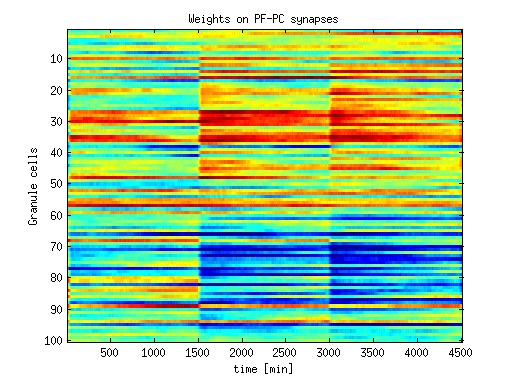
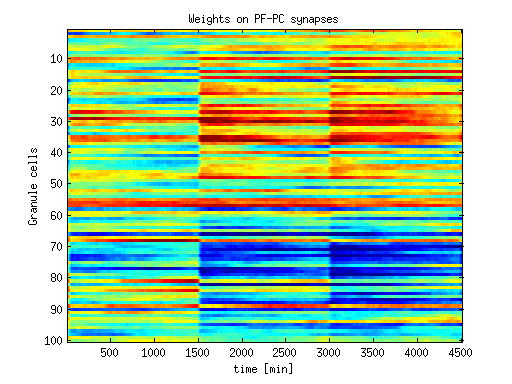
long experiment

diff --git a/simulations/parametric/html/longclopathnoi.html b/simulations/parametric/html/longclopathnoi.html
@@ -6,7 +6,7 @@
    <!--
 This HTML was auto-generated from MATLAB code.
 To make changes, update the MATLAB code and republish this document.
-      --><title>Reproducing results of Clopath et al. model of the vestibulo-ocular reflex</title><meta name="generator" content="MATLAB 8.3"><link rel="schema.DC" href="http://purl.org/dc/elements/1.1/"><meta name="DC.date" content="2015-05-17"><meta name="DC.source" content="noi.m"><style type="text/css">
+      --><title>Reproducing results of Clopath et al. model of the vestibulo-ocular reflex</title><meta name="generator" content="MATLAB 8.3"><link rel="schema.DC" href="http://purl.org/dc/elements/1.1/"><meta name="DC.date" content="2015-05-17"><meta name="DC.source" content="longclopathnoi.m"><style type="text/css">
 html,body,div,span,applet,object,iframe,h1,h2,h3,h4,h5,h6,p,blockquote,pre,a,abbr,acronym,address,big,cite,code,del,dfn,em,font,img,ins,kbd,q,s,samp,small,strike,strong,sub,sup,tt,var,b,u,i,center,dl,dt,dd,ol,ul,li,fieldset,form,label,legend,table,caption,tbody,tfoot,thead,tr,th,td{margin:0;padding:0;border:0;outline:0;font-size:100%;vertical-align:baseline;background:transparent}body{line-height:1}ol,ul{list-style:none}blockquote,q{quotes:none}blockquote:before,blockquote:after,q:before,q:after{content:'';content:none}:focus{outine:0}ins{text-decoration:none}del{text-decoration:line-through}table{border-collapse:collapse;border-spacing:0}
 
 html { min-height:100%; margin-bottom:1px; }
@@ -66,30 +66,30 @@ table td { padding:7px 5px; text-align:left; vertical-align:top; border:1px soli
 
 
 
-  </style></head><body><div class="content"><h1>Reproducing results of Clopath et al. model of the vestibulo-ocular reflex</h1><!--introduction--><!--/introduction--><h2>Contents</h2><div><ul><li><a href="#1">Detailed model with 100ms delay and NOI with k=0.01</a></li></ul></div><h2>Detailed model with 100ms delay and NOI with k=0.01<a name="1"></a></h2><pre class="codeinput">clear <span class="string">all</span>;
+  </style></head><body><div class="content"><h1>Reproducing results of Clopath et al. model of the vestibulo-ocular reflex</h1><!--introduction--><!--/introduction--><h2>Contents</h2><div><ul><li><a href="#1">Detailed model with 100ms delay, vestibular decay constant = 0.03 and NOI with k=0.01</a></li></ul></div><h2>Detailed model with 100ms delay, vestibular decay constant = 0.03 and NOI with k=0.01<a name="1"></a></h2><pre class="codeinput">clear <span class="string">all</span>;
 
-vor = VOR(100, 0.01, 0);
+vor = VOR(100, 0.01, 0.03);
 vor.Period = floor(1000/0.6);
 vor.Initialize();
 
 session = Session(vor);
-session.WulffExperiment();
+session.LongDarkExperiment();
 session.simulate();
 session.report();
-</pre><img vspace="5" hspace="5" src="noi_01.png" alt=""> <img vspace="5" hspace="5" src="noi_02.png" alt=""> <img vspace="5" hspace="5" src="noi_03.png" alt=""> <img vspace="5" hspace="5" src="noi_04.png" alt=""> <img vspace="5" hspace="5" src="noi_05.png" alt=""> <img vspace="5" hspace="5" src="noi_06.png" alt=""> <p class="footer"><br><a href="http://www.mathworks.com/products/matlab/">Published with MATLAB&reg; R2014a</a><br></p></div><!--
+</pre><img vspace="5" hspace="5" src="longclopathnoi_01.png" alt=""> <img vspace="5" hspace="5" src="longclopathnoi_02.png" alt=""> <img vspace="5" hspace="5" src="longclopathnoi_03.png" alt=""> <img vspace="5" hspace="5" src="longclopathnoi_04.png" alt=""> <img vspace="5" hspace="5" src="longclopathnoi_05.png" alt=""> <img vspace="5" hspace="5" src="longclopathnoi_06.png" alt=""> <p class="footer"><br><a href="http://www.mathworks.com/products/matlab/">Published with MATLAB&reg; R2014a</a><br></p></div><!--
 ##### SOURCE BEGIN #####
 %% Reproducing results of Clopath et al. model of the vestibulo-ocular reflex
 
-%% Detailed model with 100ms delay and NOI with k=0.01
+%% Detailed model with 100ms delay, vestibular decay constant = 0.03 and NOI with k=0.01
 
 clear all;
 
-vor = VOR(100, 0.01, 0);
+vor = VOR(100, 0.01, 0.03);
 vor.Period = floor(1000/0.6);
 vor.Initialize();
 
 session = Session(vor);
-session.WulffExperiment();
+session.LongDarkExperiment();
 session.simulate();
 session.report();
 ##### SOURCE END #####

diff --git a/simulations/parametric/html/longclopath.html b/simulations/parametric/html/longclopath.html
@@ -6,7 +6,7 @@
    <!--
 This HTML was auto-generated from MATLAB code.
 To make changes, update the MATLAB code and republish this document.
-      --><title>Reproducing results of Clopath et al. model of the vestibulo-ocular reflex</title><meta name="generator" content="MATLAB 8.3"><link rel="schema.DC" href="http://purl.org/dc/elements/1.1/"><meta name="DC.date" content="2015-05-17"><meta name="DC.source" content="noi.m"><style type="text/css">
+      --><title>Reproducing results of Clopath et al. model of the vestibulo-ocular reflex</title><meta name="generator" content="MATLAB 8.3"><link rel="schema.DC" href="http://purl.org/dc/elements/1.1/"><meta name="DC.date" content="2015-05-17"><meta name="DC.source" content="longclopath.m"><style type="text/css">
 html,body,div,span,applet,object,iframe,h1,h2,h3,h4,h5,h6,p,blockquote,pre,a,abbr,acronym,address,big,cite,code,del,dfn,em,font,img,ins,kbd,q,s,samp,small,strike,strong,sub,sup,tt,var,b,u,i,center,dl,dt,dd,ol,ul,li,fieldset,form,label,legend,table,caption,tbody,tfoot,thead,tr,th,td{margin:0;padding:0;border:0;outline:0;font-size:100%;vertical-align:baseline;background:transparent}body{line-height:1}ol,ul{list-style:none}blockquote,q{quotes:none}blockquote:before,blockquote:after,q:before,q:after{content:'';content:none}:focus{outine:0}ins{text-decoration:none}del{text-decoration:line-through}table{border-collapse:collapse;border-spacing:0}
 
 html { min-height:100%; margin-bottom:1px; }
@@ -66,30 +66,30 @@ table td { padding:7px 5px; text-align:left; vertical-align:top; border:1px soli
 
 
 
-  </style></head><body><div class="content"><h1>Reproducing results of Clopath et al. model of the vestibulo-ocular reflex</h1><!--introduction--><!--/introduction--><h2>Contents</h2><div><ul><li><a href="#1">Detailed model with 100ms delay and NOI with k=0.01</a></li></ul></div><h2>Detailed model with 100ms delay and NOI with k=0.01<a name="1"></a></h2><pre class="codeinput">clear <span class="string">all</span>;
+  </style></head><body><div class="content"><h1>Reproducing results of Clopath et al. model of the vestibulo-ocular reflex</h1><!--introduction--><!--/introduction--><h2>Contents</h2><div><ul><li><a href="#1">Detailed model with 100ms delay and vestibular decay constant = 0.03</a></li></ul></div><h2>Detailed model with 100ms delay and vestibular decay constant = 0.03<a name="1"></a></h2><pre class="codeinput">clear <span class="string">all</span>;
 
-vor = VOR(100, 0.01, 0);
+vor = VOR(100, 0, 0.03);
 vor.Period = floor(1000/0.6);
 vor.Initialize();
 
 session = Session(vor);
-session.WulffExperiment();
+session.LongDarkExperiment();
 session.simulate();
 session.report();
-</pre><img vspace="5" hspace="5" src="noi_01.png" alt=""> <img vspace="5" hspace="5" src="noi_02.png" alt=""> <img vspace="5" hspace="5" src="noi_03.png" alt=""> <img vspace="5" hspace="5" src="noi_04.png" alt=""> <img vspace="5" hspace="5" src="noi_05.png" alt=""> <img vspace="5" hspace="5" src="noi_06.png" alt=""> <p class="footer"><br><a href="http://www.mathworks.com/products/matlab/">Published with MATLAB&reg; R2014a</a><br></p></div><!--
+</pre><img vspace="5" hspace="5" src="longclopath_01.png" alt=""> <img vspace="5" hspace="5" src="longclopath_02.png" alt=""> <img vspace="5" hspace="5" src="longclopath_03.png" alt=""> <img vspace="5" hspace="5" src="longclopath_04.png" alt=""> <img vspace="5" hspace="5" src="longclopath_05.png" alt=""> <img vspace="5" hspace="5" src="longclopath_06.png" alt=""> <p class="footer"><br><a href="http://www.mathworks.com/products/matlab/">Published with MATLAB&reg; R2014a</a><br></p></div><!--
 ##### SOURCE BEGIN #####
 %% Reproducing results of Clopath et al. model of the vestibulo-ocular reflex
 
-%% Detailed model with 100ms delay and NOI with k=0.01
+%% Detailed model with 100ms delay and vestibular decay constant = 0.03
 
 clear all;
 
-vor = VOR(100, 0.01, 0);
+vor = VOR(100, 0, 0.03);
 vor.Period = floor(1000/0.6);
 vor.Initialize();
 
 session = Session(vor);
-session.WulffExperiment();
+session.LongDarkExperiment();
 session.simulate();
 session.report();
 ##### SOURCE END #####

diff --git a/simulations/parametric/html/clopathnoi.html b/simulations/parametric/html/clopathnoi.html
@@ -6,7 +6,7 @@
    <!--
 This HTML was auto-generated from MATLAB code.
 To make changes, update the MATLAB code and republish this document.
-      --><title>Reproducing results of Clopath et al. model of the vestibulo-ocular reflex</title><meta name="generator" content="MATLAB 8.3"><link rel="schema.DC" href="http://purl.org/dc/elements/1.1/"><meta name="DC.date" content="2015-05-17"><meta name="DC.source" content="noi.m"><style type="text/css">
+      --><title>Reproducing results of Clopath et al. model of the vestibulo-ocular reflex</title><meta name="generator" content="MATLAB 8.3"><link rel="schema.DC" href="http://purl.org/dc/elements/1.1/"><meta name="DC.date" content="2015-05-17"><meta name="DC.source" content="clopathnoi.m"><style type="text/css">
 html,body,div,span,applet,object,iframe,h1,h2,h3,h4,h5,h6,p,blockquote,pre,a,abbr,acronym,address,big,cite,code,del,dfn,em,font,img,ins,kbd,q,s,samp,small,strike,strong,sub,sup,tt,var,b,u,i,center,dl,dt,dd,ol,ul,li,fieldset,form,label,legend,table,caption,tbody,tfoot,thead,tr,th,td{margin:0;padding:0;border:0;outline:0;font-size:100%;vertical-align:baseline;background:transparent}body{line-height:1}ol,ul{list-style:none}blockquote,q{quotes:none}blockquote:before,blockquote:after,q:before,q:after{content:'';content:none}:focus{outine:0}ins{text-decoration:none}del{text-decoration:line-through}table{border-collapse:collapse;border-spacing:0}
 
 html { min-height:100%; margin-bottom:1px; }
@@ -66,9 +66,9 @@ table td { padding:7px 5px; text-align:left; vertical-align:top; border:1px soli
 
 
 
-  </style></head><body><div class="content"><h1>Reproducing results of Clopath et al. model of the vestibulo-ocular reflex</h1><!--introduction--><!--/introduction--><h2>Contents</h2><div><ul><li><a href="#1">Detailed model with 100ms delay and NOI with k=0.01</a></li></ul></div><h2>Detailed model with 100ms delay and NOI with k=0.01<a name="1"></a></h2><pre class="codeinput">clear <span class="string">all</span>;
+  </style></head><body><div class="content"><h1>Reproducing results of Clopath et al. model of the vestibulo-ocular reflex</h1><!--introduction--><!--/introduction--><h2>Contents</h2><div><ul><li><a href="#1">Detailed model with 100ms delay, vestibular decay constant = 0.03 and NOI with k=0.01</a></li></ul></div><h2>Detailed model with 100ms delay, vestibular decay constant = 0.03 and NOI with k=0.01<a name="1"></a></h2><pre class="codeinput">clear <span class="string">all</span>;
 
-vor = VOR(100, 0.01, 0);
+vor = VOR(100, 0.01, 0.03);
 vor.Period = floor(1000/0.6);
 vor.Initialize();
 
@@ -76,15 +76,15 @@ session = Session(vor);
 session.WulffExperiment();
 session.simulate();
 session.report();
-</pre><img vspace="5" hspace="5" src="noi_01.png" alt=""> <img vspace="5" hspace="5" src="noi_02.png" alt=""> <img vspace="5" hspace="5" src="noi_03.png" alt=""> <img vspace="5" hspace="5" src="noi_04.png" alt=""> <img vspace="5" hspace="5" src="noi_05.png" alt=""> <img vspace="5" hspace="5" src="noi_06.png" alt=""> <p class="footer"><br><a href="http://www.mathworks.com/products/matlab/">Published with MATLAB&reg; R2014a</a><br></p></div><!--
+</pre><img vspace="5" hspace="5" src="clopathnoi_01.png" alt=""> <img vspace="5" hspace="5" src="clopathnoi_02.png" alt=""> <img vspace="5" hspace="5" src="clopathnoi_03.png" alt=""> <img vspace="5" hspace="5" src="clopathnoi_04.png" alt=""> <img vspace="5" hspace="5" src="clopathnoi_05.png" alt=""> <img vspace="5" hspace="5" src="clopathnoi_06.png" alt=""> <p class="footer"><br><a href="http://www.mathworks.com/products/matlab/">Published with MATLAB&reg; R2014a</a><br></p></div><!--
 ##### SOURCE BEGIN #####
 %% Reproducing results of Clopath et al. model of the vestibulo-ocular reflex
 
-%% Detailed model with 100ms delay and NOI with k=0.01
+%% Detailed model with 100ms delay, vestibular decay constant = 0.03 and NOI with k=0.01
 
 clear all;
 
-vor = VOR(100, 0.01, 0);
+vor = VOR(100, 0.01, 0.03);
 vor.Period = floor(1000/0.6);
 vor.Initialize();
 

diff --git a/simulations/parametric/html/clopath.html b/simulations/parametric/html/clopath.html
@@ -66,35 +66,21 @@ table td { padding:7px 5px; text-align:left; vertical-align:top; border:1px soli
 
 
 
-  </style></head><body><div class="content"><h1>Reproducing results of Clopath et al. model of the vestibulo-ocular reflex</h1><!--introduction--><!--/introduction--><h2>Contents</h2><div><ul><li><a href="#1">Detailed model with 100ms delay and NOI with k=0.05</a></li></ul></div><h2>Detailed model with 100ms delay and NOI with k=0.05<a name="1"></a></h2><pre class="codeinput">clear <span class="string">all</span>;
+  </style></head><body><div class="content"><h1>Reproducing results of Clopath et al. model of the vestibulo-ocular reflex</h1><!--introduction--><!--/introduction--><h2>Contents</h2><div><ul><li><a href="#1">Detailed model with 100ms delay and vestibular decay constant = 0.03</a></li></ul></div><h2>Detailed model with 100ms delay and vestibular decay constant = 0.03<a name="1"></a></h2><pre class="codeinput">clear <span class="string">all</span>;
 
 vor = VOR(100, 0, 0.03);
 vor.Period = floor(1000/0.6);
 vor.Initialize();
 
-day = 50;
-nit = 1440;
-
 session = Session(vor);
-session.InitialTrials = 2;
-
-session.add(Trial(1, 1, day, vor.Period));
-session.add(Trial(0, 1, 2*nit, vor.Period));
-session.add(Trial(1, 0, day, vor.Period));
-session.add(Trial(0, 1, nit, vor.Period));
-session.add(Trial(1, -0.5, day, vor.Period));
-session.add(Trial(0, 1, nit, vor.Period));
-session.add(Trial(1, -1, day, vor.Period));
-session.add(Trial(0, 1, nit, vor.Period));
-session.add(Trial(1, -1, day, vor.Period));
-
+session.WulffExperiment();
 session.simulate();
 session.report();
 </pre><img vspace="5" hspace="5" src="clopath_01.png" alt=""> <img vspace="5" hspace="5" src="clopath_02.png" alt=""> <img vspace="5" hspace="5" src="clopath_03.png" alt=""> <img vspace="5" hspace="5" src="clopath_04.png" alt=""> <img vspace="5" hspace="5" src="clopath_05.png" alt=""> <img vspace="5" hspace="5" src="clopath_06.png" alt=""> <p class="footer"><br><a href="http://www.mathworks.com/products/matlab/">Published with MATLAB&reg; R2014a</a><br></p></div><!--
 ##### SOURCE BEGIN #####
 %% Reproducing results of Clopath et al. model of the vestibulo-ocular reflex
 
-%% Detailed model with 100ms delay and NOI with k=0.05
+%% Detailed model with 100ms delay and vestibular decay constant = 0.03
 
 clear all;
 
@@ -102,22 +88,8 @@ vor = VOR(100, 0, 0.03);
 vor.Period = floor(1000/0.6);
 vor.Initialize();
 
-day = 50;
-nit = 1440;
-
 session = Session(vor);
-session.InitialTrials = 2;
-
-session.add(Trial(1, 1, day, vor.Period));
-session.add(Trial(0, 1, 2*nit, vor.Period));
-session.add(Trial(1, 0, day, vor.Period));
-session.add(Trial(0, 1, nit, vor.Period));
-session.add(Trial(1, -0.5, day, vor.Period));
-session.add(Trial(0, 1, nit, vor.Period));
-session.add(Trial(1, -1, day, vor.Period));
-session.add(Trial(0, 1, nit, vor.Period));
-session.add(Trial(1, -1, day, vor.Period));
-
+session.WulffExperiment();
 session.simulate();
 session.report();
 ##### SOURCE END #####

diff --git a/simulations/parametric/html/longnoi.html b/simulations/parametric/html/longnoi.html
@@ -6,7 +6,7 @@
    <!--
 This HTML was auto-generated from MATLAB code.
 To make changes, update the MATLAB code and republish this document.
-      --><title>Reproducing results of Clopath et al. model of the vestibulo-ocular reflex</title><meta name="generator" content="MATLAB 8.3"><link rel="schema.DC" href="http://purl.org/dc/elements/1.1/"><meta name="DC.date" content="2015-05-17"><meta name="DC.source" content="noi.m"><style type="text/css">
+      --><title>Reproducing results of Clopath et al. model of the vestibulo-ocular reflex</title><meta name="generator" content="MATLAB 8.3"><link rel="schema.DC" href="http://purl.org/dc/elements/1.1/"><meta name="DC.date" content="2015-05-17"><meta name="DC.source" content="longnoi.m"><style type="text/css">
 html,body,div,span,applet,object,iframe,h1,h2,h3,h4,h5,h6,p,blockquote,pre,a,abbr,acronym,address,big,cite,code,del,dfn,em,font,img,ins,kbd,q,s,samp,small,strike,strong,sub,sup,tt,var,b,u,i,center,dl,dt,dd,ol,ul,li,fieldset,form,label,legend,table,caption,tbody,tfoot,thead,tr,th,td{margin:0;padding:0;border:0;outline:0;font-size:100%;vertical-align:baseline;background:transparent}body{line-height:1}ol,ul{list-style:none}blockquote,q{quotes:none}blockquote:before,blockquote:after,q:before,q:after{content:'';content:none}:focus{outine:0}ins{text-decoration:none}del{text-decoration:line-through}table{border-collapse:collapse;border-spacing:0}
 
 html { min-height:100%; margin-bottom:1px; }
@@ -73,10 +73,10 @@ vor.Period = floor(1000/0.6);
 vor.Initialize();
 
 session = Session(vor);
-session.WulffExperiment();
+session.LongDarkExperiment();
 session.simulate();
 session.report();
-</pre><img vspace="5" hspace="5" src="noi_01.png" alt=""> <img vspace="5" hspace="5" src="noi_02.png" alt=""> <img vspace="5" hspace="5" src="noi_03.png" alt=""> <img vspace="5" hspace="5" src="noi_04.png" alt=""> <img vspace="5" hspace="5" src="noi_05.png" alt=""> <img vspace="5" hspace="5" src="noi_06.png" alt=""> <p class="footer"><br><a href="http://www.mathworks.com/products/matlab/">Published with MATLAB&reg; R2014a</a><br></p></div><!--
+</pre><img vspace="5" hspace="5" src="longnoi_01.png" alt=""> <img vspace="5" hspace="5" src="longnoi_02.png" alt=""> <img vspace="5" hspace="5" src="longnoi_03.png" alt=""> <img vspace="5" hspace="5" src="longnoi_04.png" alt=""> <img vspace="5" hspace="5" src="longnoi_05.png" alt=""> <img vspace="5" hspace="5" src="longnoi_06.png" alt=""> <p class="footer"><br><a href="http://www.mathworks.com/products/matlab/">Published with MATLAB&reg; R2014a</a><br></p></div><!--
 ##### SOURCE BEGIN #####
 %% Reproducing results of Clopath et al. model of the vestibulo-ocular reflex
 
@@ -89,7 +89,7 @@ vor.Period = floor(1000/0.6);
 vor.Initialize();
 
 session = Session(vor);
-session.WulffExperiment();
+session.LongDarkExperiment();
 session.simulate();
 session.report();
 ##### SOURCE END #####

diff --git a/simulations/parametric/Session.m b/simulations/parametric/Session.m
@@ -44,6 +44,16 @@ classdef Session < handle
             session.add(Trial(1, -1, day, session.VOR.Period));
         end
         
+        function LongDarkExperiment(session)
+            day = 50;
+            nit = 1440;
+            session.InitialTrials = 2;
+            session.add(Trial(1, 1, day, session.VOR.Period));
+            session.add(Trial(0, 1, 2*nit, session.VOR.Period));
+            session.add(Trial(1, 0, day, session.VOR.Period));
+            session.add(Trial(0, 1, 7*nit, session.VOR.Period));
+        end
+        
         function obj = add(obj, trial)
             obj.Trials = [obj.Trials, trial];
             obj.Duration = obj.Duration + trial.Duration;

diff --git a/simulations/parametric/longclopathnoi.m b/simulations/parametric/longclopathnoi.m
@@ -1,14 +1,14 @@
 %% Reproducing results of Clopath et al. model of the vestibulo-ocular reflex
 
-%% Detailed model with 100ms delay and vestibular decay constant = 0.03
+%% Detailed model with 100ms delay, vestibular decay constant = 0.03 and NOI with k=0.01
 
 clear all;
 
-vor = VOR(100, 0, 0.03);
+vor = VOR(100, 0.01, 0.03);
 vor.Period = floor(1000/0.6);
 vor.Initialize();
 
 session = Session(vor);
-session.WulffExperiment();
+session.LongDarkExperiment();
 session.simulate();
 session.report();

diff --git a/simulations/parametric/longnoi.m b/simulations/parametric/longnoi.m
@@ -1,14 +1,14 @@
 %% Reproducing results of Clopath et al. model of the vestibulo-ocular reflex
 
-%% Detailed model with 100ms delay and vestibular decay constant = 0.03
+%% Detailed model with 100ms delay and NOI with k=0.01
 
 clear all;
 
-vor = VOR(100, 0, 0.03);
+vor = VOR(100, 0.01, 0);
 vor.Period = floor(1000/0.6);
 vor.Initialize();
 
 session = Session(vor);
-session.WulffExperiment();
+session.LongDarkExperiment();
 session.simulate();
 session.report();

diff --git a/simulations/parametric/clopathnoi.m b/simulations/parametric/clopathnoi.m
@@ -1,6 +1,6 @@
 %% Reproducing results of Clopath et al. model of the vestibulo-ocular reflex
 
-%% Detailed model with 100ms delay and NOI with k=0.05
+%% Detailed model with 100ms delay, vestibular decay constant = 0.03 and NOI with k=0.01
 
 clear all;
 

diff --git a/simulations/parametric/noi.m b/simulations/parametric/noi.m
@@ -1,6 +1,6 @@
 %% Reproducing results of Clopath et al. model of the vestibulo-ocular reflex
 
-%% Detailed model with 100ms delay and NOI with k=0.05
+%% Detailed model with 100ms delay and NOI with k=0.01
 
 clear all;
 

diff --git a/simulations/parametric/longclopath.m b/simulations/parametric/longclopath.m
@@ -9,6 +9,6 @@ vor.Period = floor(1000/0.6);
 vor.Initialize();
 
 session = Session(vor);
-session.WulffExperiment();
+session.LongDarkExperiment();
 session.simulate();
 session.report();
